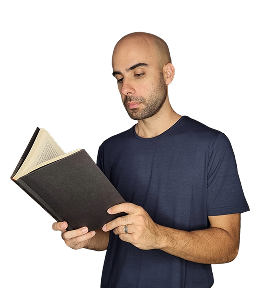
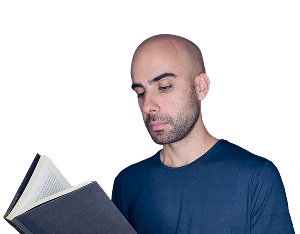
header pic changes

diff --git a/styles/style.css b/styles/style.css
@@ -52,10 +52,10 @@
     --sunset900: #5C300A;
     --sunset1000: #371D06;
 
-    --font-noto: "Noto Serif", serif;
-    --font-grotesk: "Space Grotesk", sans-serif;
-    --font-dm-sans: "DM Sans", sans-serif;
     --font-inter-tight: "Inter Tight", sans-serif;
+    --font-dm-sans: "DM Sans", sans-serif;
+    --font-grotesk: "Space Grotesk", sans-serif;
+    --font-noto: "Noto Serif", serif;
     
 }
 
@@ -72,6 +72,25 @@ html, body {
 
 
 
+
+
+
+.header-poster-section {
+    margin-top: 48px;
+    background-image: linear-gradient(to right, var(--cerulean900), var(--cerulean1000));
+    display: flex;
+    justify-content: space-between;
+    padding-left: 24px;
+    align-items: center;
+}
+
+@media only screen and (min-width: 600px) {
+    .header-poster-section {
+        justify-content: center;
+        gap: 64px;
+    }
+
+}
 
 
 

diff --git a/components/component-button.js b/components/component-button.js
@@ -21,7 +21,7 @@ class ComponentButton extends HTMLElement{
                     margin-left: auto;
                     margin-right: auto;
                     text-decoration: none;
-                    font-weight: bold;
+                    font-weight: 600;
                     color: var(--graycool0);
                     fill: var(--graycool0);
                     background-color: var(--sunset600);
@@ -29,7 +29,7 @@ class ComponentButton extends HTMLElement{
                     padding-bottom: 24px;
                     border-radius: 8px;
                     transition-duration: 0.2s;
-                    border: 2px solid var(--graycool900);
+                    box-shadow: 0px 0px 16px var(--sunset600);
                 }
 
                 .button-anchor:hover {

diff --git a/sobre.html b/sobre.html
@@ -20,23 +20,23 @@
 </head>
 <body>
 
-    <header>   
+    <header>
 
         <component-global-menu>
             Sobre
         </component-global-menu>
 
-    </header>
-
-    <main>
-
-        <div class="sobre-pic-section">
+        <section class="header-poster-section">
 
             <component-page-title>SOBRE</component-page-title>
 
-            <img src="images/pictures/sobre-pic.png" alt="Zé Antonio Foto">
+            <img src="images/pictures/sobre-pic.png" alt="Teacher Zé">
 
-        </div>
+        </section>
+
+    </header>
+
+    <main>
 
         <svg class="lock-logo" viewBox="0 0 1024 1024">
 

diff --git a/aulas.html b/aulas.html
@@ -30,17 +30,17 @@
             Aulas com Zé
         </component-global-menu>
 
-    </header>
-
-    <main>
-
-        <section class="aulas-poster">
+        <section class="header-poster-section">
 
             <component-page-title>AULAS<br>COM ZÉ</component-page-title>
 
             <img src="images/pictures/aulas-pic.png" alt="Teacher Zé">
 
         </section>
+
+    </header>
+
+    <main>
 
         <section class="section-container-padding">
 

diff --git a/styles/aulas.css b/styles/aulas.css
@@ -1,21 +1,6 @@
 /* AULAS POSTER ↓ */
 
-.aulas-poster {
-    margin-top: 48px;
-    background-image: linear-gradient(to right, var(--cerulean700), var(--cerulean800));
-    display: flex;
-    justify-content: space-between;
-    padding-left: 24px;
-    align-items: center;
-}
 
-@media only screen and (min-width: 600px) {
-    .aulas-poster {
-        justify-content: center;
-        gap: 64px;
-    }
-
-}
 
 .aulas-paragraph {
     font-size: 16px;

diff --git a/styles/sobre.css b/styles/sobre.css
@@ -29,7 +29,7 @@
     margin-top: 48px;
     margin-bottom: 32px;
     display: flex;
-    background-image: linear-gradient(to right, var(--cerulean700), var(--cerulean800));
+    background-image: linear-gradient(to right, var(--cerulean900), var(--cerulean1000));
     justify-content: center;
     align-items: center;
     gap: 32px;

diff --git a/trainer.html b/trainer.html
@@ -30,6 +30,14 @@
             Trainer
         </component-global-menu>
 
+        <section class="header-poster-section">
+
+            <component-page-title>TRAINER</component-page-title>
+
+            <img src="images/pictures/trainer-pic.png" alt="Teacher Zé">
+
+        </section>
+
     </header>
 
     <main>

diff --git a/styles/home.css b/styles/home.css
@@ -89,7 +89,7 @@
     font-size: 16px;
     color: var(--graycool800);
     fill: var(--cerulean600);
-    box-shadow: 0px 0px 4px var(--cerulean300);
+    box-shadow: 0px 0px 4px var(--graycool200);
     transition-duration: 0.2s;
 }
 
